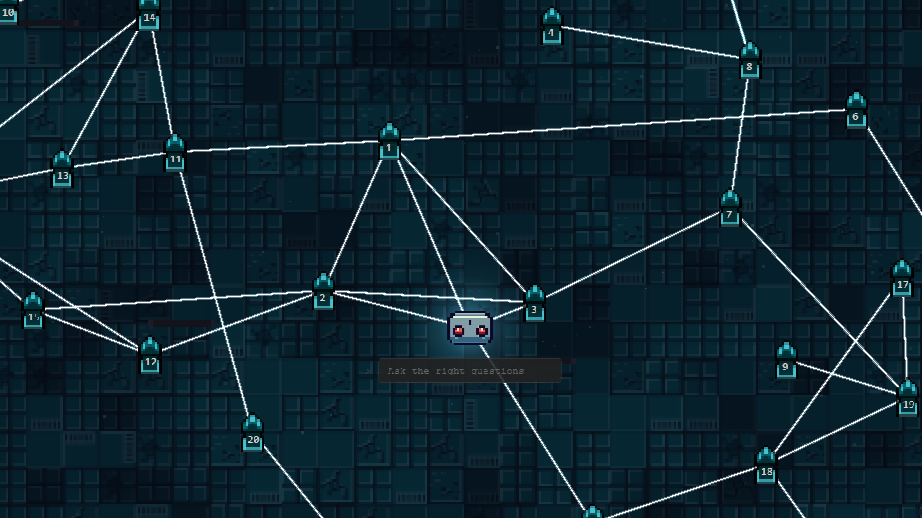
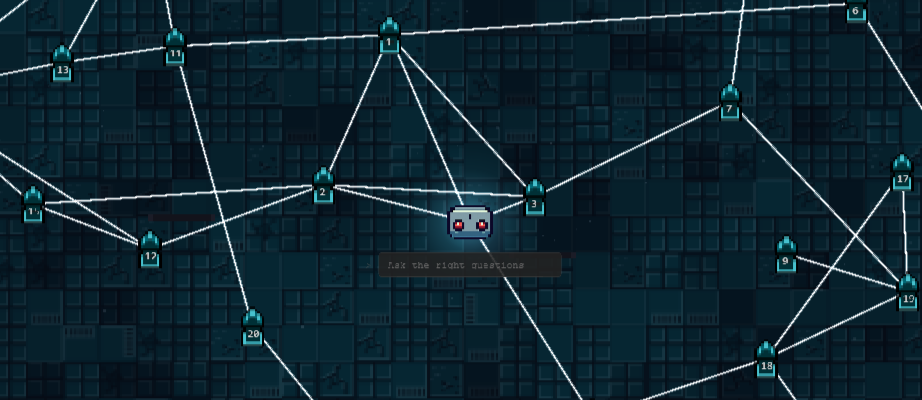
Expanded on backend arch in the README

diff --git a/README.md b/README.md
@@ -8,7 +8,7 @@ Ask The Right Questions
 A pixel-art detective game where players learn how RAG Agents works by questioning an AI with amnesia to solve a case of a missing person.
 
 <p align="center">
-  <img src="Full Map.png" alt="Description" width="420">
+  <img src="Full Map.png" alt="Description" width="460">
 </p>
 
 
@@ -20,9 +20,60 @@ The user has to enter the best guess they have of the overall story. If the gues
 ## Architecture 
 
 <p align="center">
-  <img src="diagram.png" alt="Description" width="450">
+  <img src="diagram.png" alt="Description" width="435">
 </p>
 
-the Full_st
-
 The backend is built using ```FastAPI``` and ```Langchain``` to handle the RAG Agent. The frontend is built using ```PixiJS``` to provide a pixel-art experience. The backend is hosted on ```Render``` and the frontend is hosted on ```Vercel```.
+
+
+- The full_story.md file has the full story and used by the eval agent in story_check_agent.py to check how much of the story the user has pieced together.
+
+- The memories.json file has the individual memories thta are used to create the vector database using ```Qdrant``` and ```langchain```.
+
+JSON Schema for memories.json:
+```json
+{
+  "memories": [
+    {
+      "id": "memory_1",
+      "text": "Memory content 1"
+    },
+    {
+      "id": "memory_2",
+      "text": "Memory content 2"
+    }
+  ]
+}
+```
+
+- **make_story.md:** I made this file since i was having a hard time sitting down and manually writing the two files mentioned above. This agent asks you questions about the story and then generates the full story and memories.json file for you. You can use this to generate your own stories and memories.
+
+- make_db.py: This script is used to handel all the database related operations.
+    1. It has a function to check the database integrity
+    2. It embedds all the memories in the memories.json file using ```text-embedding-3-large``` model and saves/upserts them in a ```Qdrant``` vector database.
+    3. Then calculates a 2D UMAP projection of the embeddings and calculates a list of connections using an algorithm (too complex to explain here, check make_world_json in backend/make_db.py) and saves all this in ```world.json``` file.
+    4. This contrains the function ```load_world_json``` which sends the world.json file to the client when the game starts. here is the schema of the world.json file:
+    ```json
+    [
+        {
+            "id": 1,
+            "text": "On 17/09/2015, Ethan Mercer went missing.",
+            "x": -42.27619171142578,
+            "y": -98.61996173858643,
+            "connections": [2,3,6,11]
+        }
+    ]
+    ```
+    5. Contains the tool ```Retrive_top_k``` used by the main agent.
+- In untils.py there a debug_print function that when used instead of print, will show the time, file name and the function name from where it was called. This is useful for debugging.
+
+## Frontend
+The frontend is built using ```PixiJS``` and ```React```.
+
+- **Tiling rules:**
+- **Render Scaling Factors:**
+- **Camera Controller:**
+- **Rendering central and memory nodes:**
+
+## Credits
+Pixel art assets are from https://yaninyunus.itch.io/neo-zero-cyberpunk-city-tileset